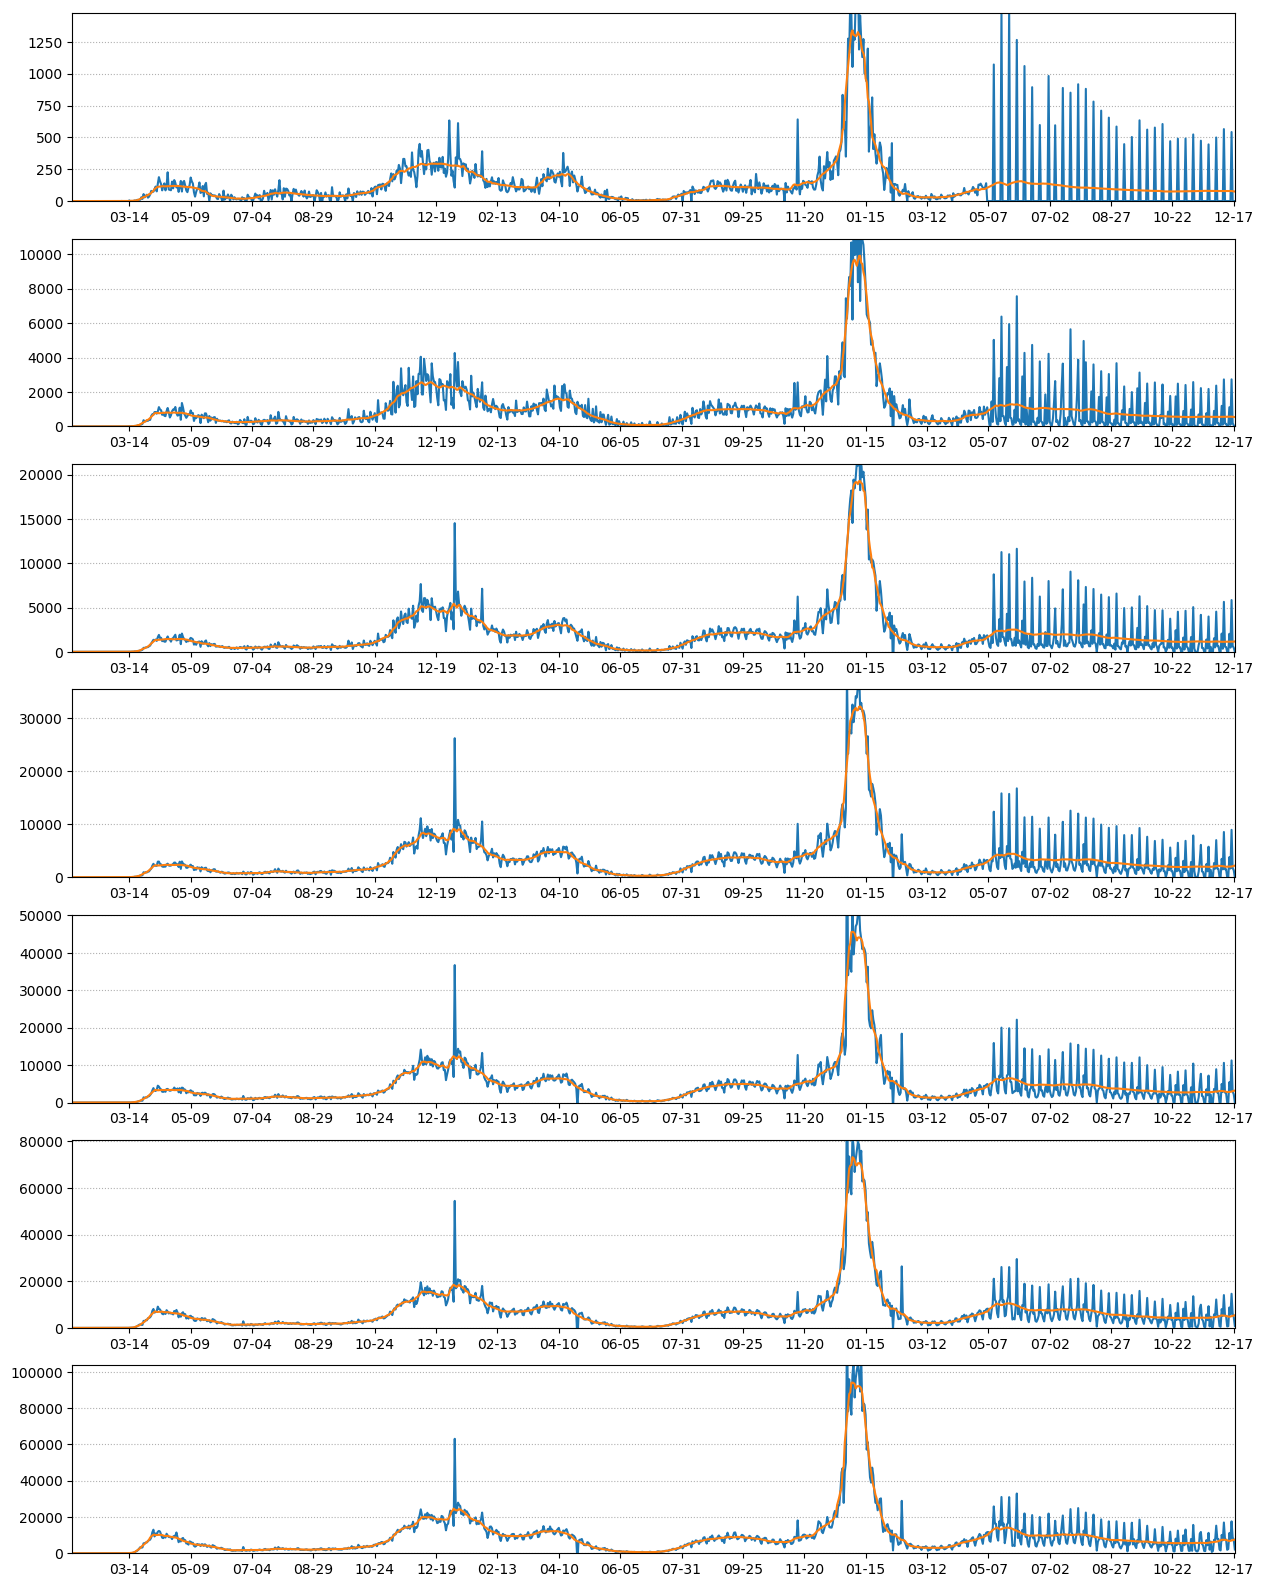
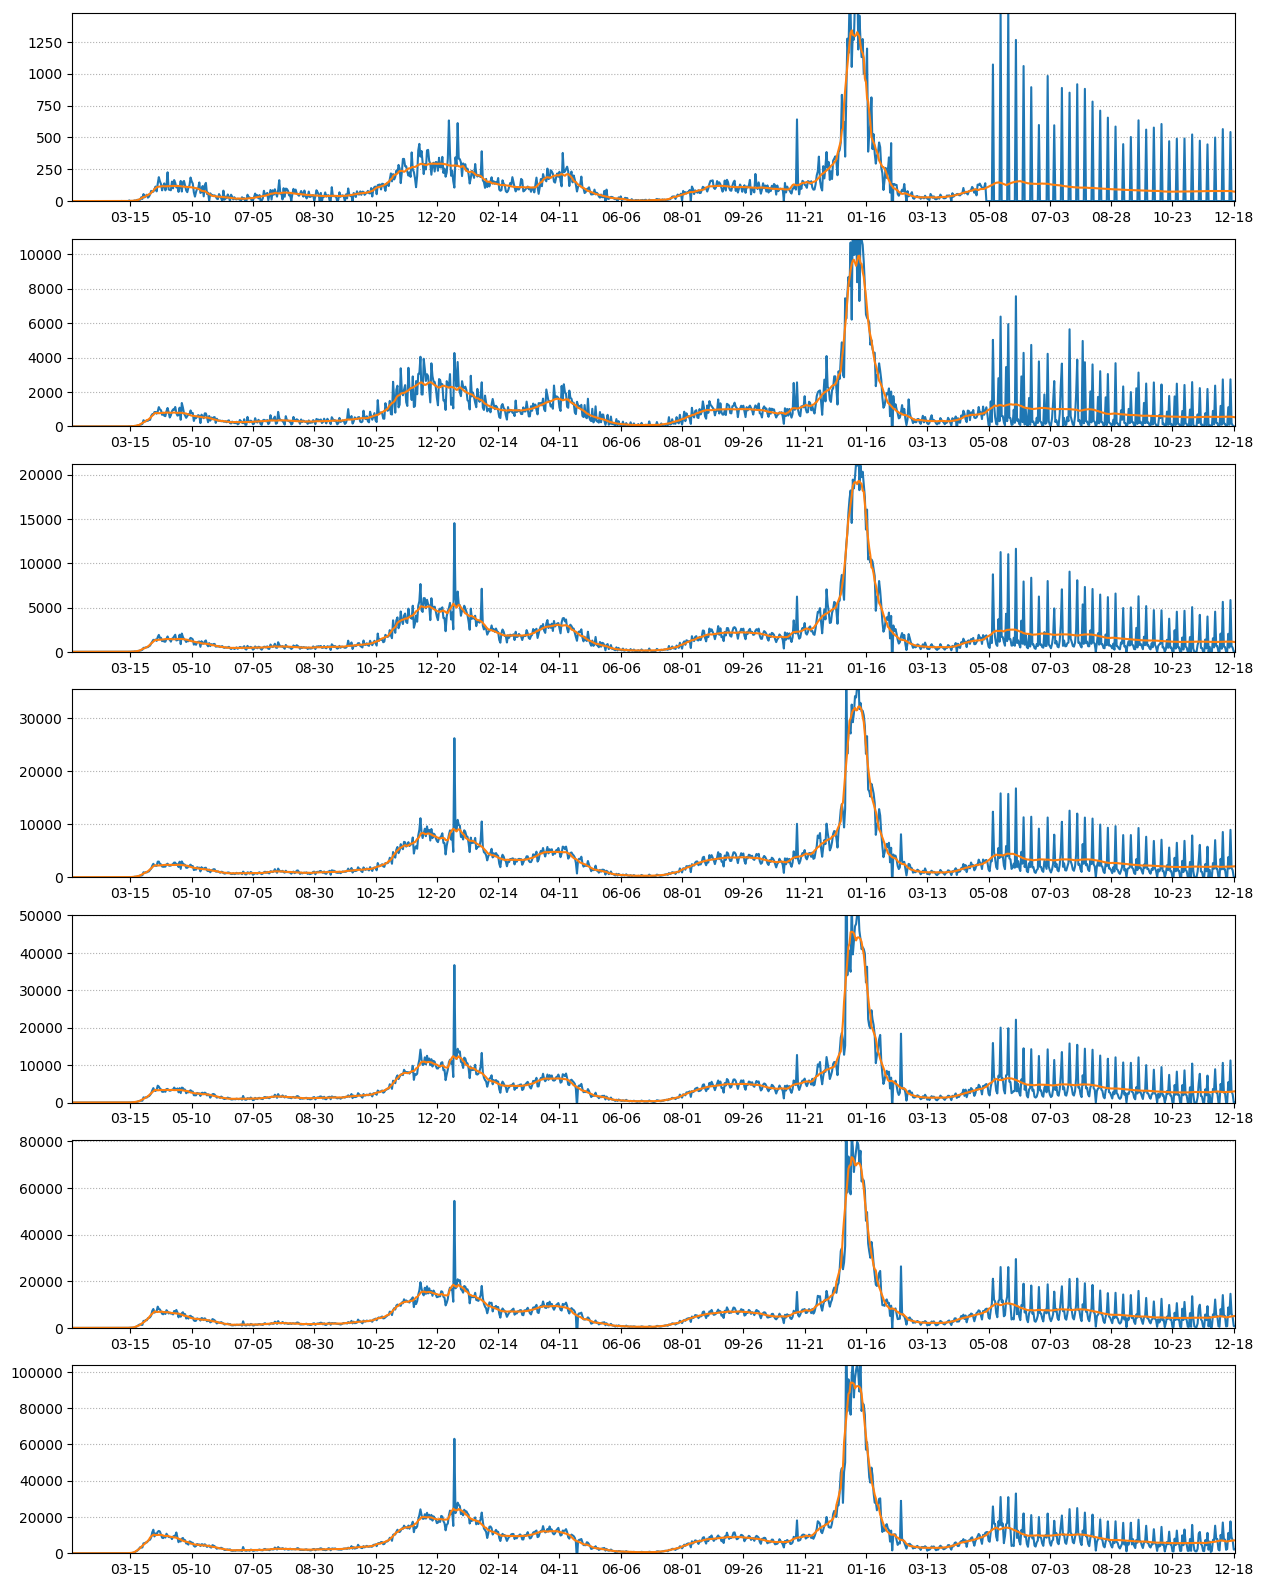
daily forecast

diff --git a/dailymessage.html b/dailymessage.html
@@ -1,46 +1,46 @@
 Delaware County COVID-19 Monitor<br>
-as of 2022-12-17<br>
+as of 2022-12-18<br>
 <table border="1" cellspacing="5" cellpadding="3">
 <tr>
 <td>0</td>
-<td>75</td>
+<td>74</td>
 <td>566747</td>
-<td>13.2</td>
+<td>13.0</td>
 </tr>
 <tr>
 <td>1</td>
-<td>545</td>
+<td>535</td>
 <td>4357104</td>
-<td>12.5</td>
+<td>12.2</td>
 </tr>
 <tr>
 <td>2</td>
-<td>1173</td>
+<td>1107</td>
 <td>8052045</td>
-<td>14.5</td>
+<td>13.7</td>
 </tr>
 <tr>
 <td>3</td>
-<td>2175</td>
+<td>2051</td>
 <td>13327166</td>
-<td>16.3</td>
+<td>15.3</td>
 </tr>
 <tr>
 <td>4</td>
-<td>3193</td>
+<td>3002</td>
 <td>18498878</td>
-<td>17.2</td>
+<td>16.2</td>
 </tr>
 <tr>
 <td>5</td>
-<td>5413</td>
+<td>5105</td>
 <td>27240755</td>
-<td>19.8</td>
+<td>18.7</td>
 </tr>
 <tr>
 <td>6</td>
-<td>7534</td>
+<td>7142</td>
 <td>34871340</td>
-<td>21.6</td>
+<td>20.4</td>
 </tr>
 </table>
